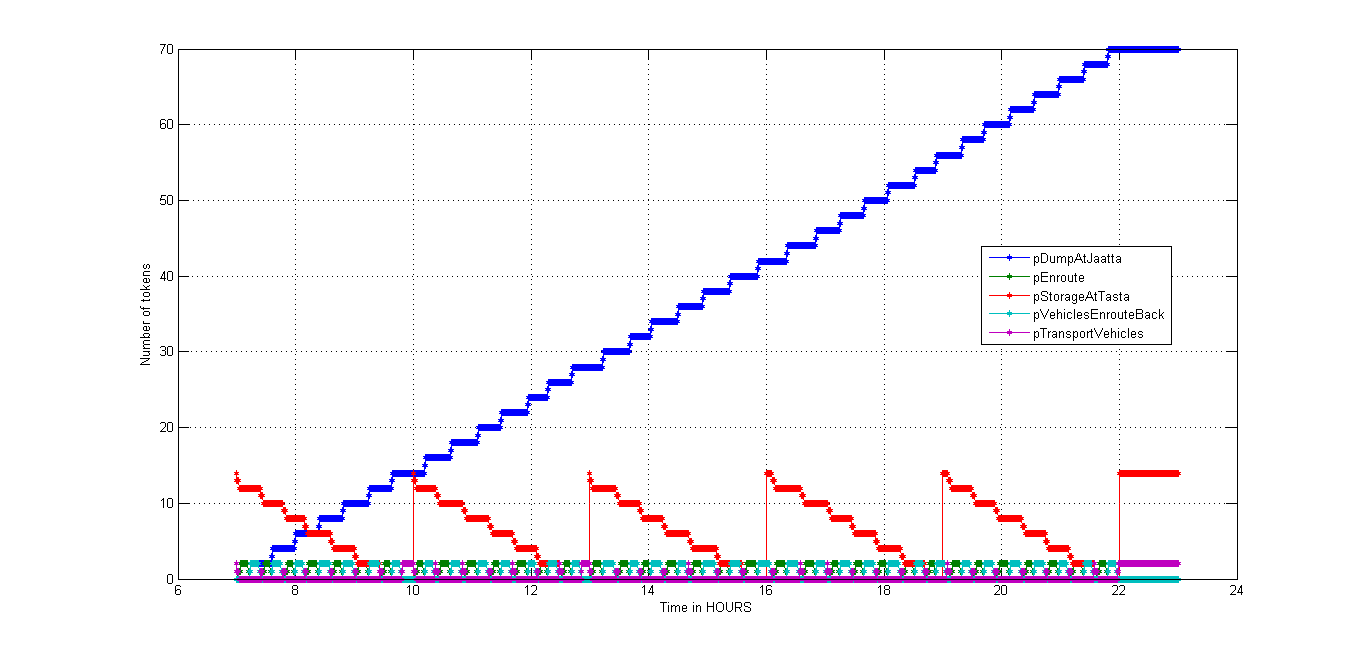
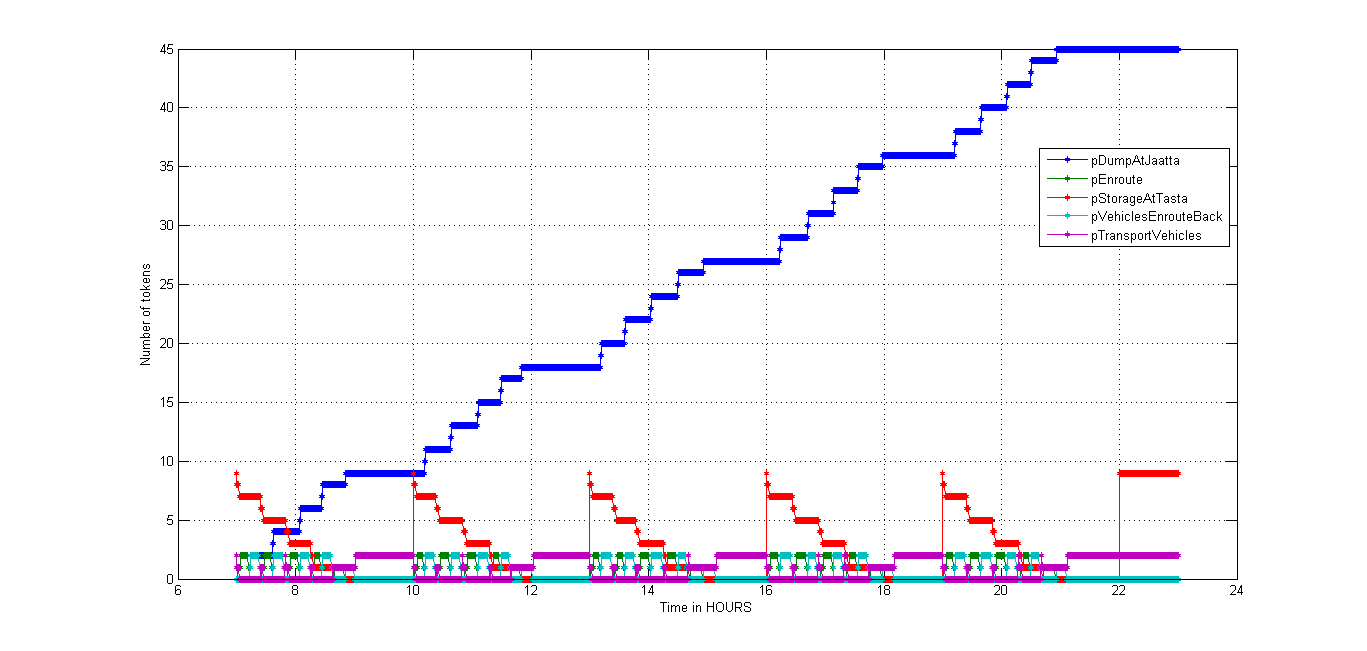
eiganes done

diff --git a/ryfast/eiganes_jaattaa/eiganes_pn.m b/ryfast/eiganes_jaattaa/eiganes_pn.m
@@ -4,20 +4,20 @@ global_info.START_AT = [7 0 0]; %simulation starts at 7 in the morning
 global_info.DELTA_TIME = 60;
 global_info.STOP_AT = [23 00 0]; %simulation starts at 11 in the evening
 global_info.generated_mass_eiganes = 0; %generated mass in m3
-global_info.mass_per_blast = 110;
-global_info.truck_capacity = 5; %capacity in m3
-global_info.road_eiganes_hinna_capacity = 7; %capacity of trucks on road each way
+global_info.mass_per_blast = 140;
+global_info.truck_capacity = 10; %capacity in m3
+global_info.road_eiganes_hinna_capacity = 3; %capacity of trucks on road each way
 global_info.dumped_at_jaattaa = 0;
 
 pns = pnstruct('eiganes_pn_pdf'); % create petri net structure
 
-dyn.m0 = {'pStorageAtEiganes',0,...
+dyn.m0 = {'pStorageAtEiganes',global_info.mass_per_blast/global_info.truck_capacity,...
           'pTransportVehicles',global_info.road_eiganes_hinna_capacity,...
           'pEnroute',0,...
           'pDumpAtJaatta',0,...
           'pVehiclesEnrouteBack',0,...
           };
-dyn.ft = {'tMassGenerator',1,...
+dyn.ft = {'tMassGenerator',10800,...
           'tNewVehicleAvailable',1,...
           'tStartTransport',1,...
           'tDumpMass',1,...

diff --git a/ryfast/eiganes_jaattaa/tStartTransport_pre.m b/ryfast/eiganes_jaattaa/tStartTransport_pre.m
@@ -6,10 +6,10 @@ if current_time() < 79200
         if mod(current_time()/60,3)==0 
             %start transport and calculate transport time
             if current_time() > 52200 && current_time() < 59400 
-                transition.new_color = num2str(current_time()+ 60*randi([12,14],1,1));
+                transition.new_color = num2str(current_time()+ 60*randi([16,18],1,1));
                 transition.override = 1;
             else
-                transition.new_color = num2str(current_time()+ 60*randi([10,13],1,1));
+                transition.new_color = num2str(current_time()+ 60*randi([14,16],1,1));
                 transition.override = 1;
             end
             fprintf('Time %s: \t Place: pEnroute \t \t \t Action: Loaded truck departed\n',string_HH_MM_SS(current_time()));

diff --git a/ryfast/eiganes_jaattaa/tMassGenerator_pre.m b/ryfast/eiganes_jaattaa/tMassGenerator_pre.m
@@ -1,9 +1,6 @@
 function [fire, transition] = tMassGenerator_pre (transition)
 global global_info;
-fire=0;
-%new mass is generated every 90 minutes
-if mod((1800+current_time())/60,90)==0
-    global_info.generated_mass_eiganes = global_info.generated_mass_eiganes + global_info.mass_per_blast;
-    fprintf('Time %s: \t Place: pStorageAtEiganes \t Action: Mass generated and brought to tunnel entrance\n',string_HH_MM_SS(current_time()));
-    fire = 1;
-end
+
+global_info.generated_mass_eiganes = global_info.generated_mass_eiganes + global_info.mass_per_blast;
+fprintf('Time %s: \t Place: pStorageAtEiganes \t Action: Mass generated and brought to tunnel entrance\n',string_HH_MM_SS(current_time()));
+fire = 1;

diff --git a/ryfast/tasta_jaattaa/tasta_pn.m b/ryfast/tasta_jaattaa/tasta_pn.m
@@ -5,7 +5,7 @@ global_info.DELTA_TIME = 60; %time in hours
 global_info.STOP_AT = [23 00 1]; %simulation end at 11 in the evening
 global_info.generated_mass_tasta = 0; %generated mass in m3
 global_info.truck_capacity = 10; %capacity in m3
-global_info.mass_per_blast = 140; %mass produced by each blast
+global_info.mass_per_blast = 90; %mass produced by each blast
 global_info.road_tasta_hinna_capacity = 2; %capacity of trucks on road each way
 global_info.dumped_at_jaattaa = 0;
 
